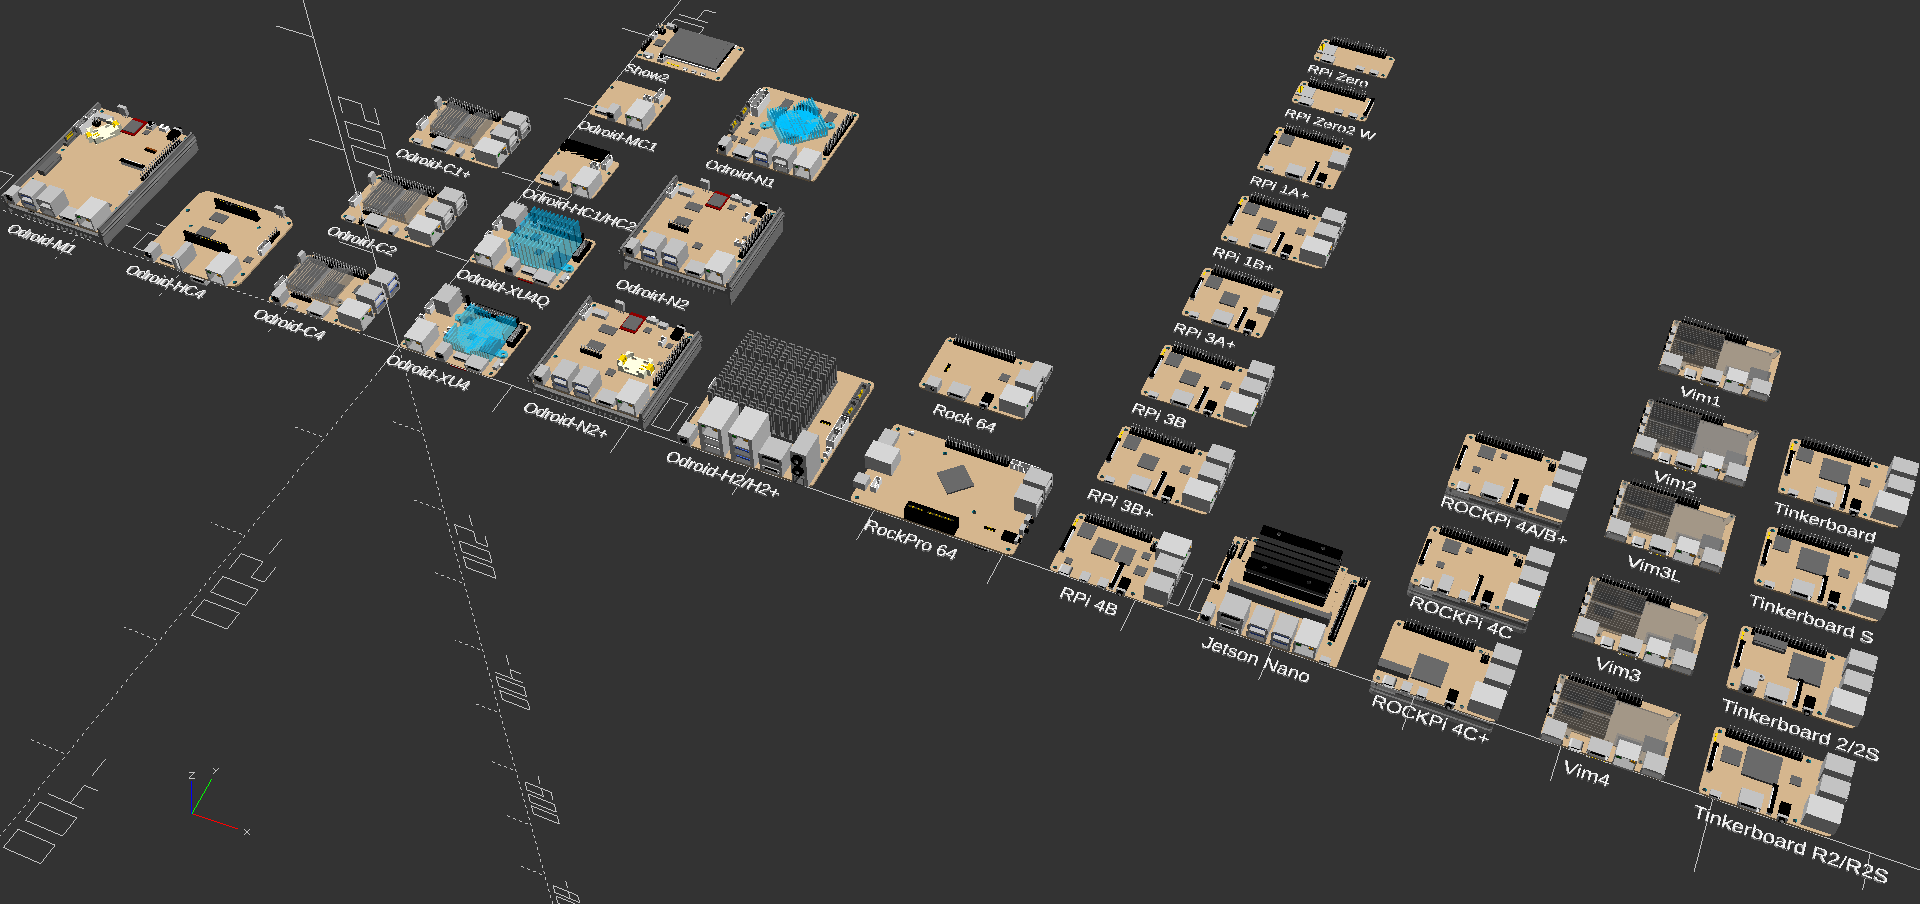
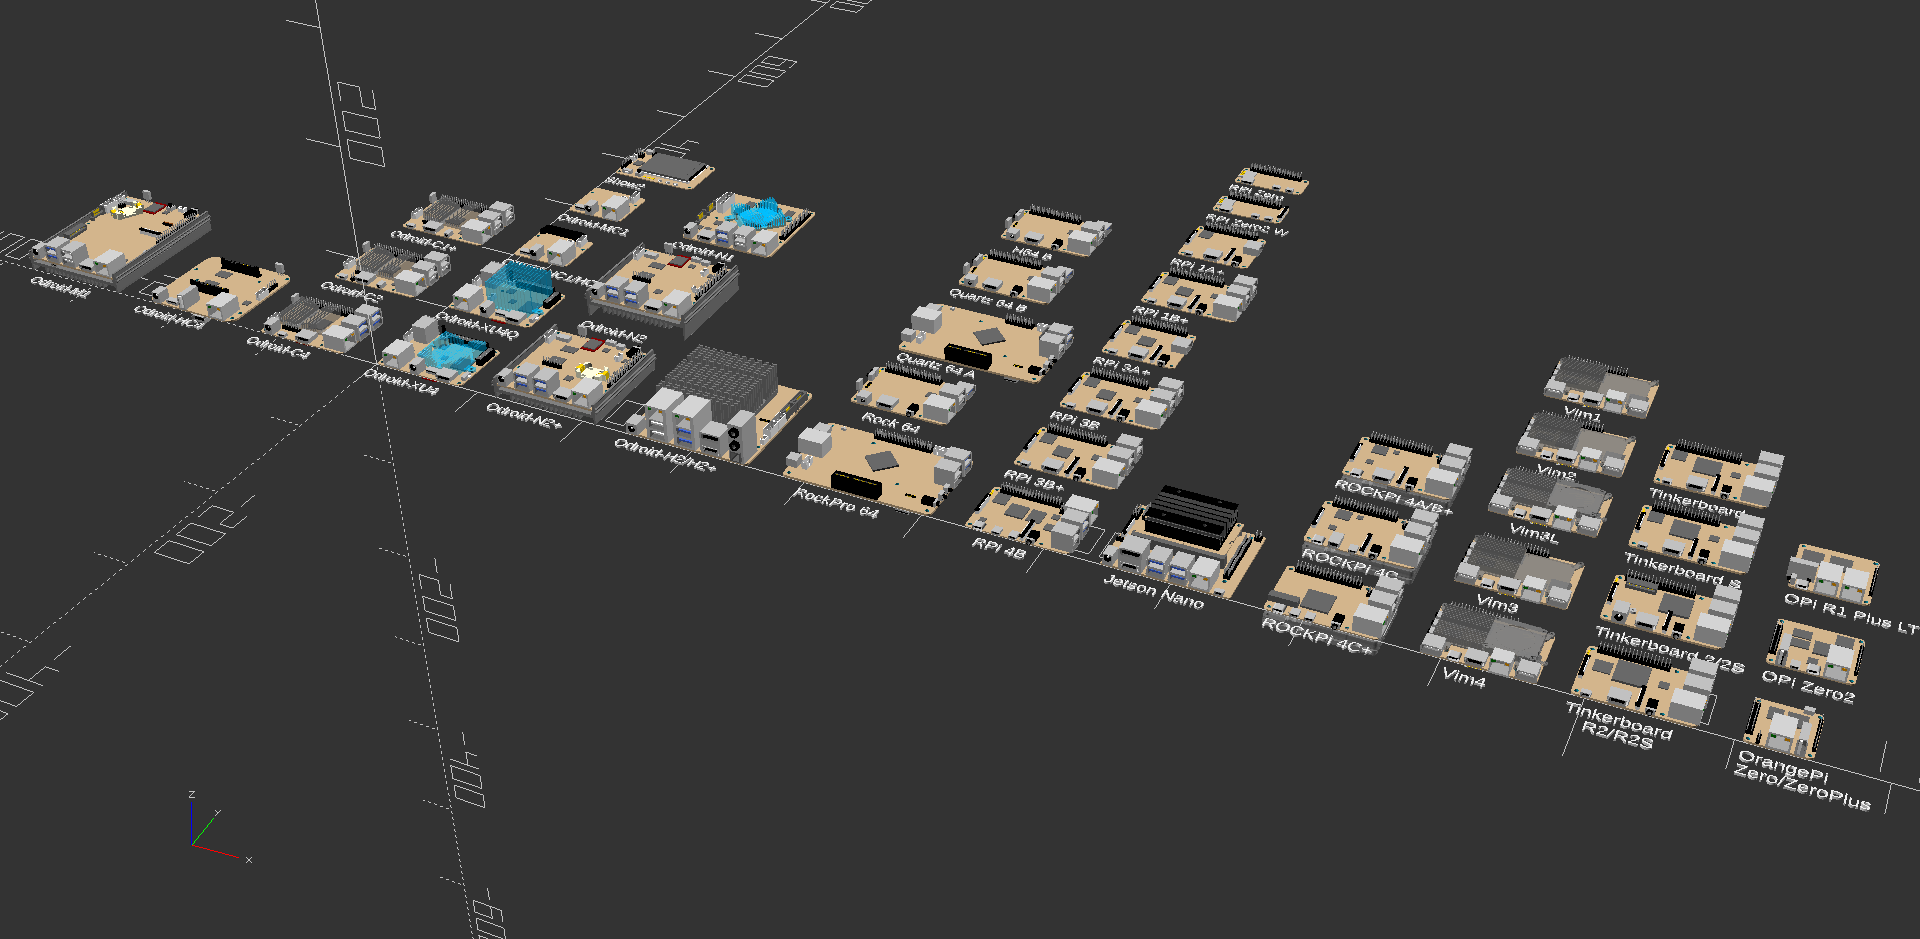
added sbc quartz64a,quartz64b,h54b,opizero,opizero2,opir1plus_lts and supporting components, updated readme.md, sbc.png and other minor fixes.

diff --git a/README.md b/README.md
@@ -7,13 +7,13 @@ This project is a lightweight and dynamic framework for the generation of SBC an
 
 ![Image](sbc.png)
 
-### Current SBC
+### Current SBC: 43 modeled 47 represented
 
 Hardkernel Odroid: c1+,c2,c4,xu4,xu4q,mc1,hc1,hc4,m1,n1,n2,n2+,h2,show2
 
 Nividia: jetsonnano
 
-Pine64: rock64,rockpro64
+Pine64: rock64,rockpro64,quartz64a,quartz64b,h64b
 
 Raspberry Pi:rpizero,rpizero2w,rpi1a+,rpi1b+,rpi3a+,rpi3b,rpi3b+,rpi4b
 
@@ -23,6 +23,7 @@ Khadas: vim1,vim2,vim3l,vim3,vim4
 
 Asus: tinkerboard,tinkerboard-s,tinkerboard-2,tinkerboard-r2
 
+OrangePi: opizero,opizero2,opir1plus_lts
 
 License: GPLv3.
 
